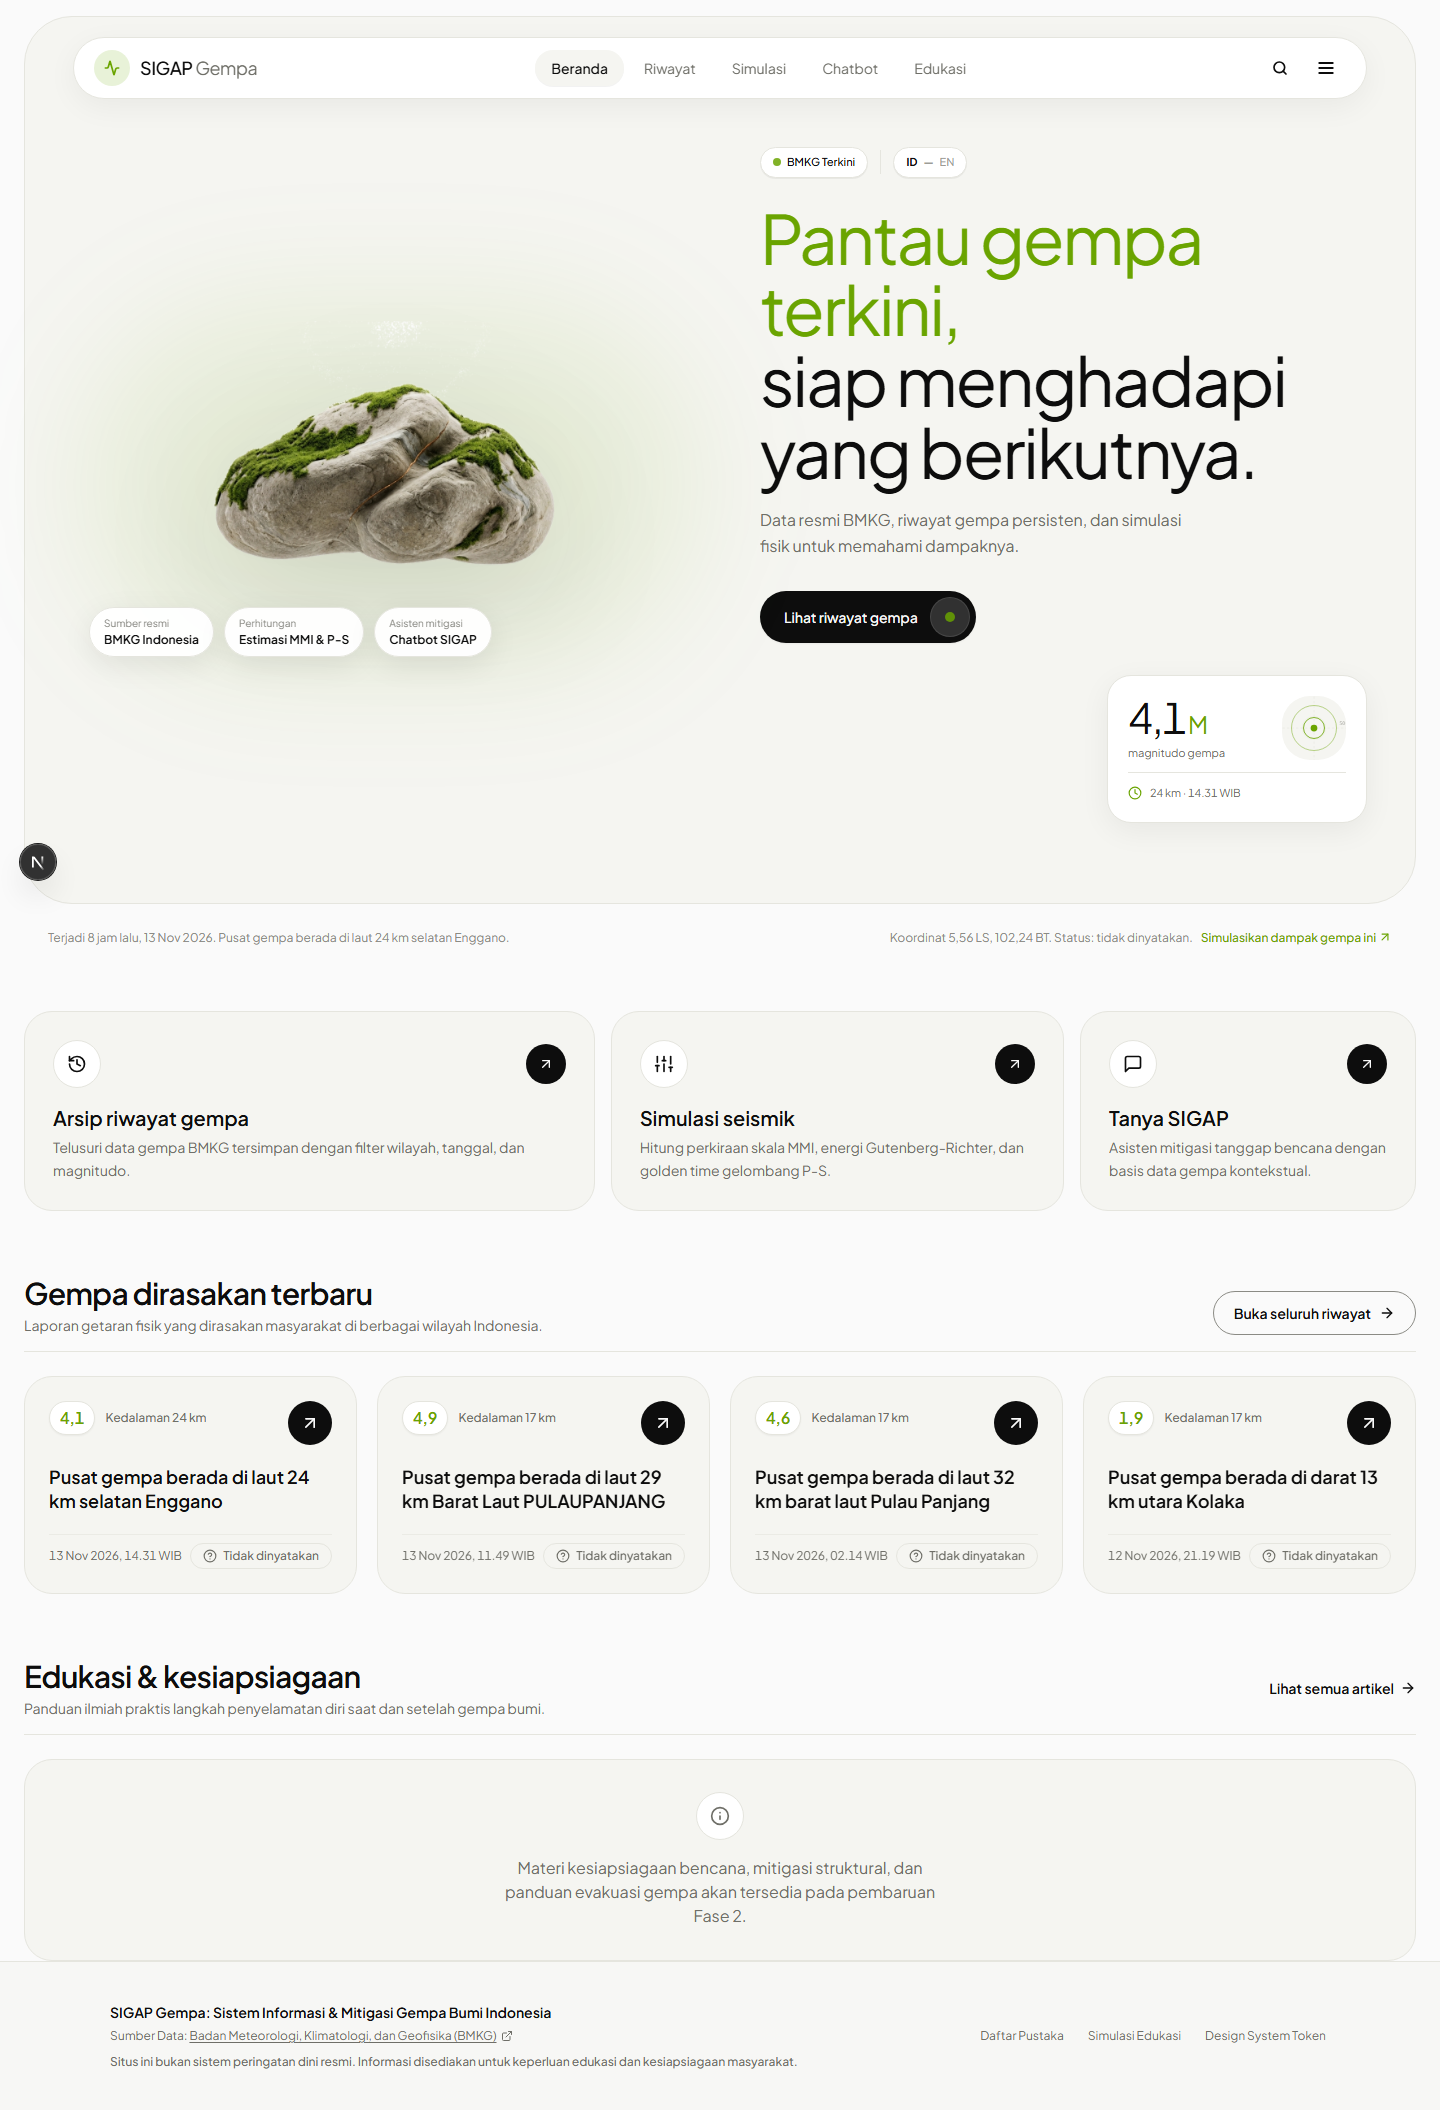
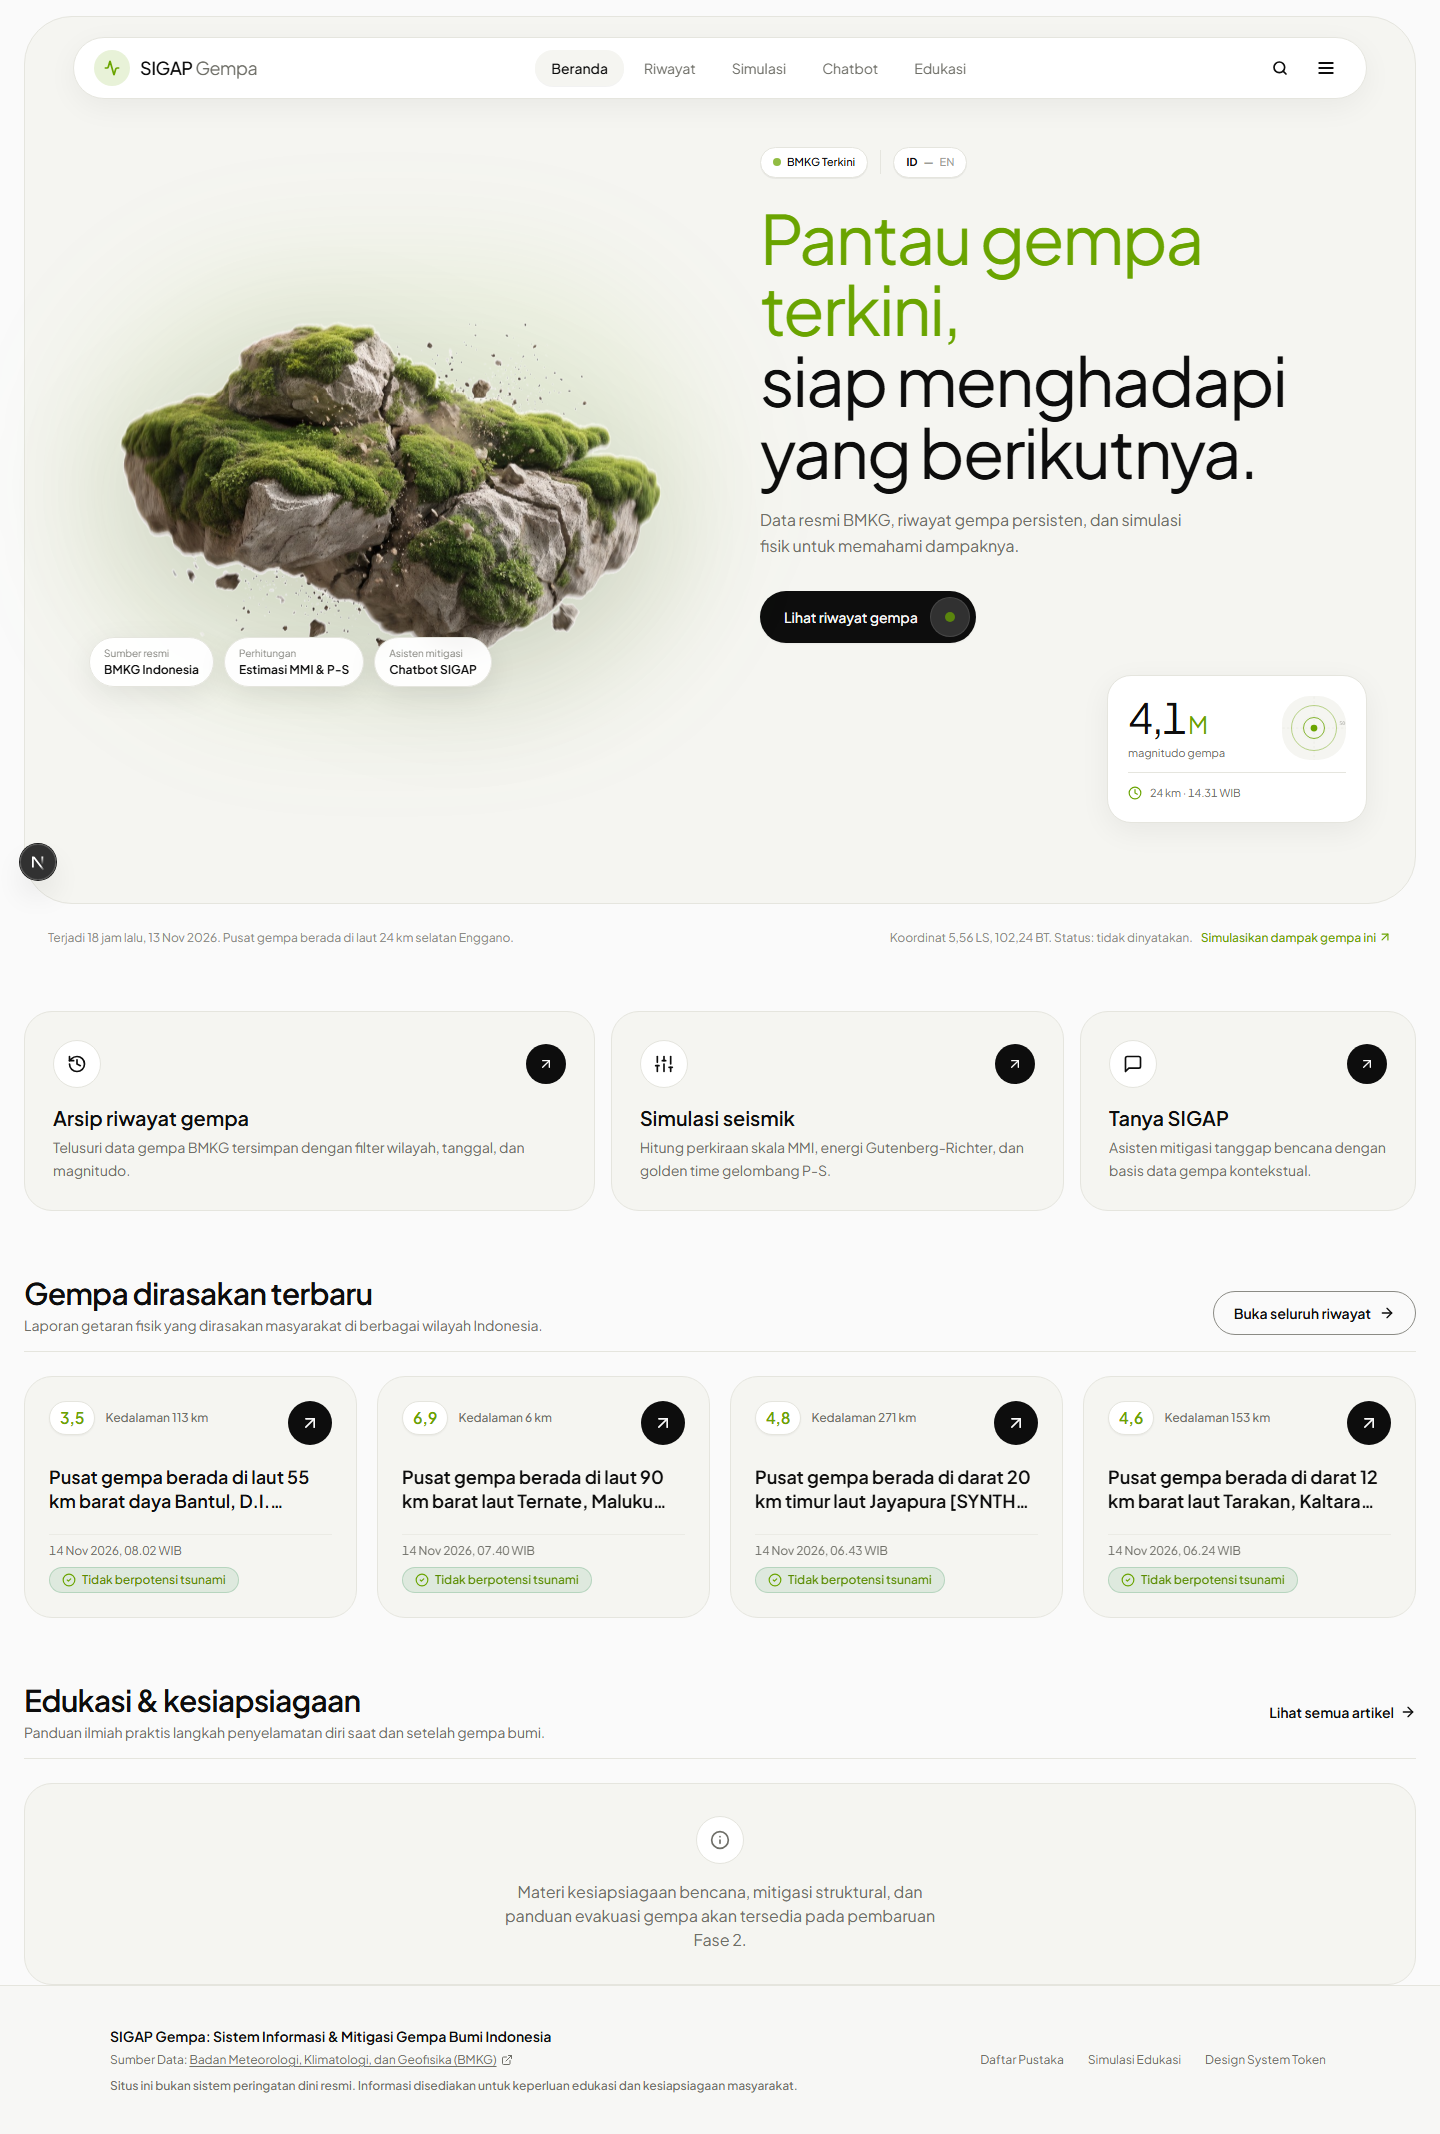
feat(beranda): gunakan aset lempeng tektonik pilihan pengguna dengan pembersihan alpha transparan

diff --git a/src/app/page.tsx b/src/app/page.tsx
@@ -182,8 +182,8 @@ export default async function HomePage() {
                   {/* Subtle soft primary blur behind the stone */}
                   <div className="pointer-events-none absolute -inset-6 rounded-full bg-[var(--color-primary)]/10 blur-3xl" />
                   <img
-                    src="/images/tectonic-island-v3.png"
-                    alt="Batuan tektonik skulptural organik dengan lumut dan patahan energi seismik"
+                    src="/images/tectonic-island.png"
+                    alt="Fragmen lempeng tektonik bumi dengan batuan berlumut dan retakan seismik"
                     className="relative w-full h-auto max-h-[460px] object-contain animate-floaty filter drop-shadow-[0_30px_60px_rgba(13,13,13,0.12)] select-none pointer-events-none"
                   />
                 </div>

diff --git a/tests/tc-db-fase1c.test.ts b/tests/tc-db-fase1c.test.ts
@@ -78,3 +78,4 @@ describe("Uji Kepatuhan TC-DB Fase 1c (Halaman Riwayat)", () => {
     expect(duration).toBeLessThan(300);
   });
 });
+

diff --git a/src/app/simulasi/page.tsx b/src/app/simulasi/page.tsx
@@ -89,3 +89,4 @@ export default async function SimulasiPlaceholderPage({ searchParams }: Simulasi
     </div>
   );
 }
+

diff --git a/src/components/ui/RiwayatChart.tsx b/src/components/ui/RiwayatChart.tsx
@@ -98,3 +98,4 @@ export function RiwayatChart({ data, totalData }: RiwayatChartProps) {
     </section>
   );
 }
+

diff --git a/scripts/capture-riwayat-states.js b/scripts/capture-riwayat-states.js
@@ -186,3 +186,4 @@ capture().catch((err) => {
   console.error('Capture error:', err);
   process.exit(1);
 });
+

diff --git a/scripts/benchmark-nfr-db-01.ts b/scripts/benchmark-nfr-db-01.ts
@@ -62,3 +62,4 @@ runBenchmark()
   .finally(async () => {
     await prisma.$disconnect();
   });
+

diff --git a/prisma/seed-fixture-10k.ts b/prisma/seed-fixture-10k.ts
@@ -128,3 +128,4 @@ main()
   .finally(async () => {
     await prisma.$disconnect();
   });
+

diff --git a/src/components/ui/RiwayatFilter.tsx b/src/components/ui/RiwayatFilter.tsx
@@ -159,3 +159,4 @@ export function RiwayatFilter({
     </section>
   );
 }
+
